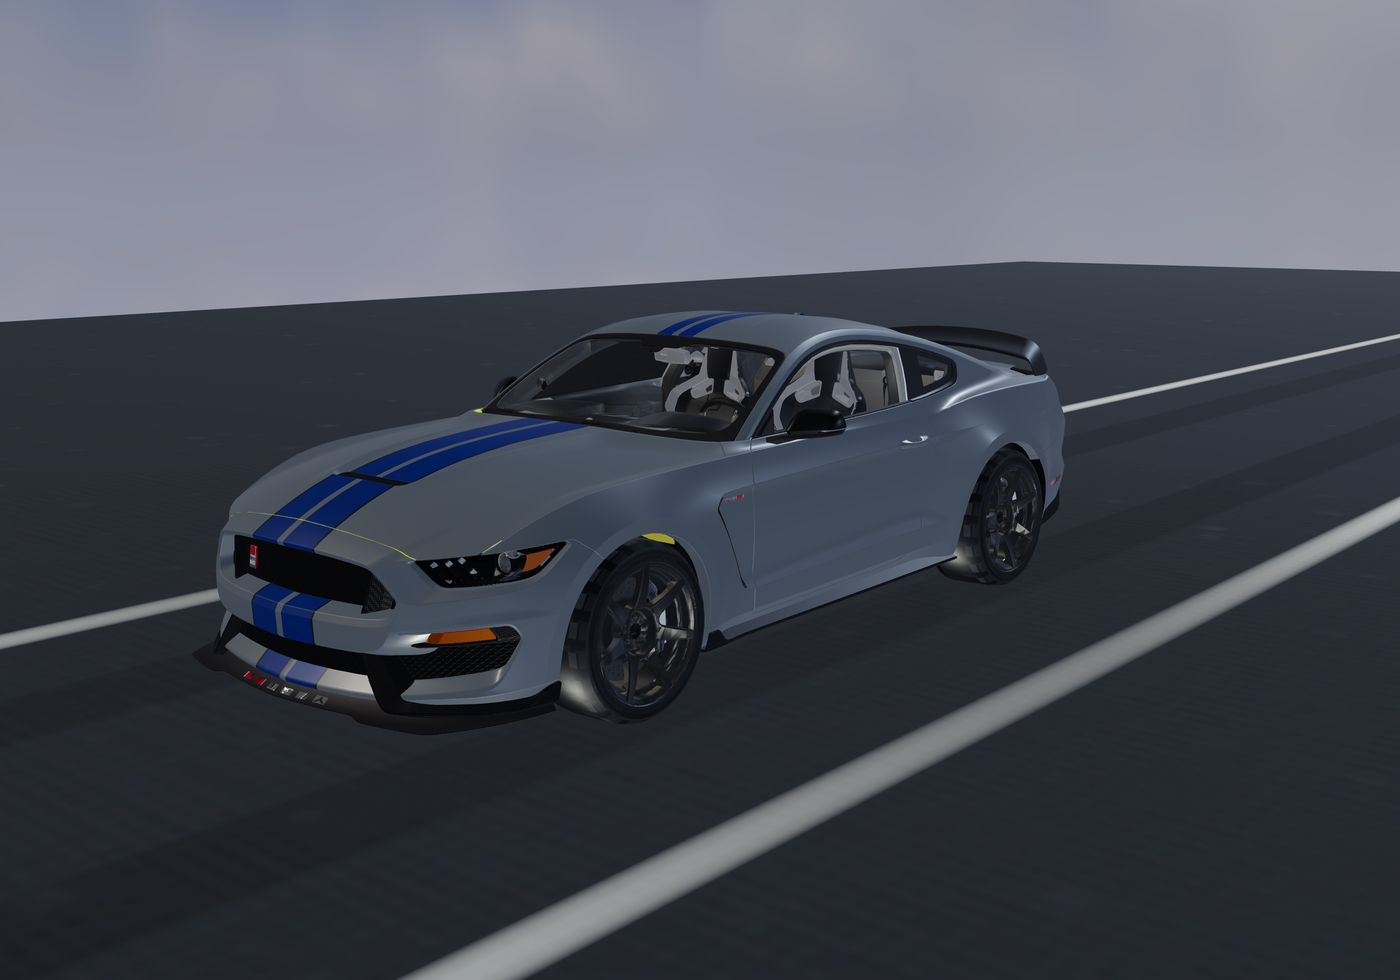
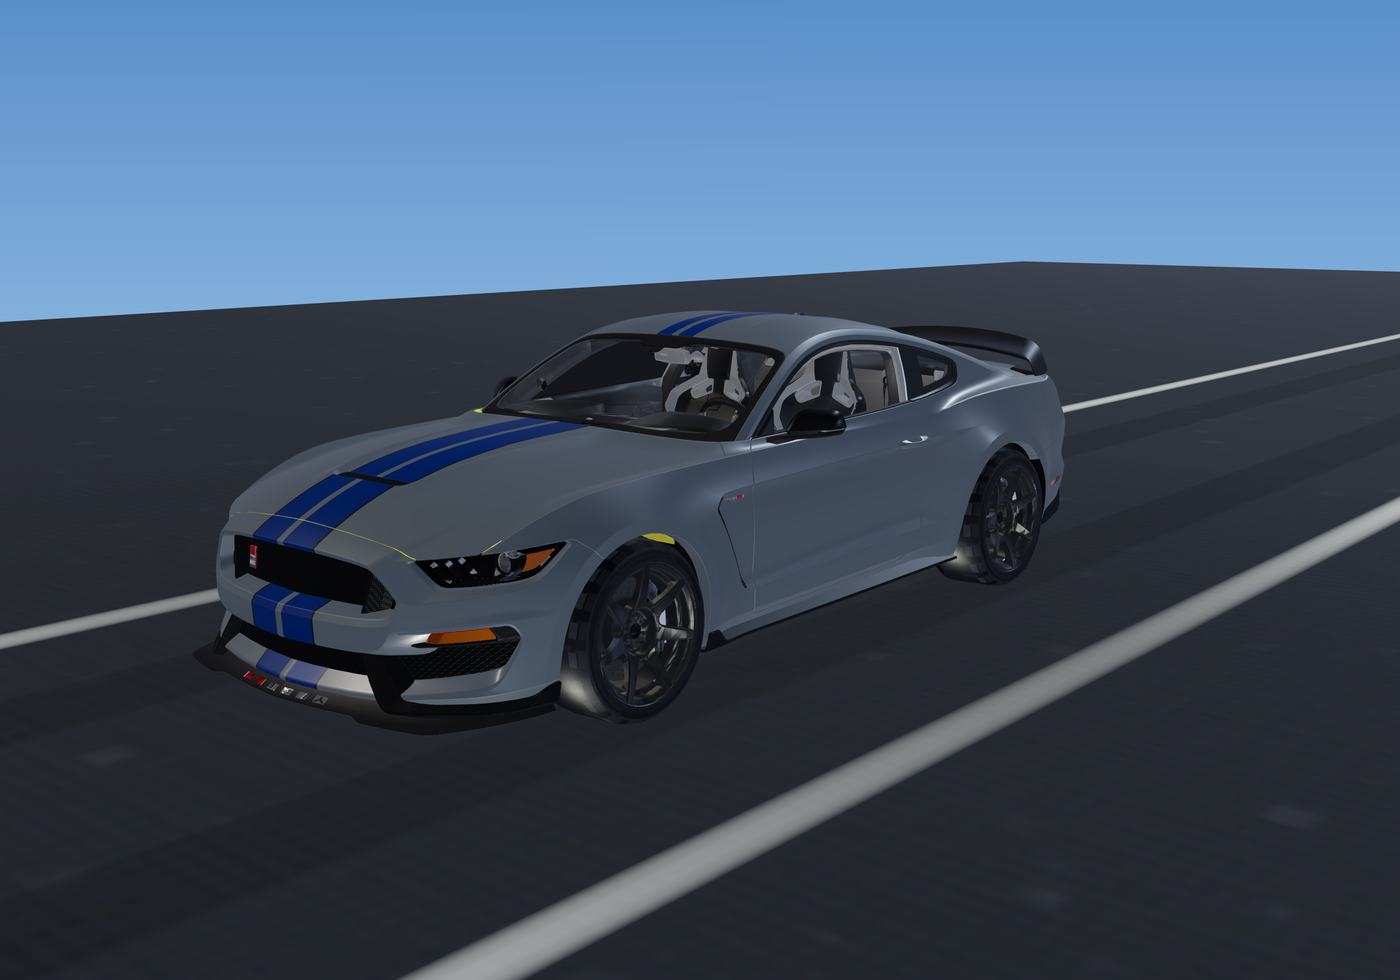
Give the Garage a real blue sky instead of the real HDR's horizon haze
Tuning the real daylight HDR's background blur/intensity couldn't fix
the gray sky, because the bug wasn't in those settings: from this
camera's low, ground-level vantage point the only part of that HDR's
dome ever in frame is its hazy horizon band, never the blue higher up.
Confirmed by numeric pixel sampling a live render and an isolated one
built to the same code -- both were identically flat gray regardless of
blur/intensity. The backdrop is now a small generated gradient in the
aircraft tour's own sky blue, decoupled from the HDR, which stays in
use for reflections only.

Changed region(s): [[0.0, 0.0, 1.0, 0.3367]]

diff --git a/app/garage-scene.tsx b/app/garage-scene.tsx
@@ -108,6 +108,38 @@ function roadTexture(T: typeof import('@/lib/garage-three')) {
   return texture;
 }
 
+// The visible backdrop, drawn on a canvas rather than sampled from the real
+// daylight HDR used for reflections below. That HDR is a real (if tiny,
+// 512x256) sky dome, but from this camera's low, ground-level vantage --
+// framing a parked car, not looking up at the sky -- the only slice of it
+// ever in view is the hazy band right at the horizon, which reads as flat
+// gray regardless of how the background blur/intensity are tuned; the
+// actual blue only exists higher up in the dome than this camera ever
+// points. A dedicated gradient, in the same blue the aircraft tour's own
+// sky photo uses, reliably reads as sky instead. It doesn't rotate with
+// the camera (a plain 2D texture, not an environment map), but the car
+// only orbits at a fairly constant, shallow elevation, so a static gradient
+// behind it is indistinguishable from a real one within that range.
+function skyTexture(T: typeof import('@/lib/garage-three')) {
+  const width = 2;
+  const height = 512;
+  const canvas = document.createElement('canvas');
+  canvas.width = width;
+  canvas.height = height;
+  const ctx = canvas.getContext('2d');
+  if (!ctx) return null;
+  const gradient = ctx.createLinearGradient(0, 0, 0, height);
+  gradient.addColorStop(0, '#5b8fc9');
+  gradient.addColorStop(0.55, '#9cc7e9');
+  gradient.addColorStop(1, '#dde8f2');
+  ctx.fillStyle = gradient;
+  ctx.fillRect(0, 0, width, height);
+  const texture = new T.Texture(canvas);
+  texture.needsUpdate = true;
+  texture.colorSpace = T.SRGBColorSpace;
+  return texture;
+}
+
 const fetchAsset = async (path: string, signal: AbortSignal) => {
   const response = await fetch(sceneAsset(path), {
     signal: AbortSignal.any([signal, AbortSignal.timeout(25000)]),
@@ -201,6 +233,11 @@ export default function GarageScene({ reducedMotion, onStatus }: Props) {
         r.domElement.removeEventListener('webglcontextlost', lost),
       );
       const scene = new T.Scene();
+      const sky = skyTexture(T);
+      if (sky) {
+        scene.background = sky;
+        textures.add(sky);
+      }
       const camera = new T.PerspectiveCamera(36, 1, 0.1, 50);
       camera.position.set(4.6, 1.9, 5.4);
       scene.add(new T.HemisphereLight(0xdfe6ea, 0x33363c, 0.9));
@@ -279,18 +316,11 @@ export default function GarageScene({ reducedMotion, onStatus }: Props) {
           texture.needsUpdate = true;
           const pmrem = new T.PMREMGenerator(r);
           const environment = pmrem.fromEquirectangular(texture);
+          // The same daylight dome the aircraft tour uses, sampled for
+          // reflections only -- see skyTexture above for why the visible
+          // backdrop is a separate, dedicated gradient rather than this.
           scene.environment = environment.texture;
           scene.environmentIntensity = 0.6;
-          // The same daylight dome the aircraft tour uses, now shown as the
-          // backdrop too (not just sampled for reflections). A heavier blur
-          // was tried first to read as soft ambience rather than a literal
-          // sky, but blurring an equirectangular map averages in the hazier
-          // band near the horizon and washes the blue out to gray; a light
-          // blur keeps it soft without losing the color, and the road below
-          // now gives the car something to sit on instead of float over.
-          scene.background = environment.texture;
-          scene.backgroundIntensity = 1.0;
-          scene.backgroundBlurriness = 0.1;
           texture.dispose();
           pmrem.dispose();
           cleanups.push(() => environment.dispose());

diff --git a/ASSETS.md b/ASSETS.md
@@ -20,6 +20,7 @@
 - The roof skin rendered as one solid stripe-blue panel edge to edge, no gray at all — not a recolor bug but the source artist's own UV layout for that one panel, which gives the "stripe" swatch cell nearly the whole roof (verified by sampling the actual texture at the roof's UVs, bucketed by world X: stripe-cell coverage runs to roughly half the roof's own width, versus a narrow band on the hood sampled the same way). A texture recolor can't fix a per-panel UV choice, so the roof is instead re-split by world position into `RoofPaint_stripe` and `RoofPaint_gray`, both carrying "Paint" in their name so the viewer's clearcoat upgrade still applies to them. The first attempt classified whole triangles by centroid at the hood's own stripe offset; that produced either a jagged sawtooth edge (part of this panel's own triangulation is a coarse, several-centimetre diagonal fan the boundary happened to cut through) or, at a boundary wide enough to dodge the fan, a stripe so wide it read as a two-tone panel rather than a stripe next to the hood's much narrower one. `split_at_plane`/`split_bands` in `prepare-garage-car.py` fix both problems at once: they clip the straddling triangles themselves at the exact x boundary (interpolating position/normal/UV at the cut, Sutherland-Hodgman style), so the edge is clean regardless of the source mesh's local resolution, which in turn makes it safe to pick a narrower, more proportionate width and even reproduce the hood's thin gray gap between its two stripes — both were previously blocked by the coarse geometry, not by the classification logic.
 - Interior (42,851 triangles) and engine bay (13,625 triangles) are the two largest remaining chunks and the first candidates to prune if the Garage viewer stays exterior-only and wants a smaller download; nothing has been pruned so far.
 - The ground is a 40×80m asphalt plane, drawn on a canvas at runtime rather than shipped as a photo (`roadTexture` in `garage-scene.tsx`, the same "generate it, don't fetch it" call as the sky's cloud-shadow noise and this viewer's own contact-shadow disc): a speckled aggregate scatter, two faint darker tire-wear paths, and two sun-faded lane edge lines a car's width apart. The canvas's two axes are deliberately not symmetric (tall rather than square) so the lane lines are drawn once as straight rectangles running the plane's length, with real 3D perspective foreshortening them correctly rather than needing a seamless tiling pattern. `MeshStandardMaterial` (not the flat, unlit material the small contact-shadow disc still uses) so it actually responds to the scene's lights; anisotropic filtering is set explicitly since the speckle grain aliased into a visible moiré at the shallow angle a ground plane is seen at, which none of this viewer's other textures needed.
+- The visible sky is a small generated gradient texture (`skyTexture`), not the real daylight HDR used for reflections. That HDR does supply real reflections (`scene.environment`), but from this camera's low, ground-level vantage point, framing a parked car rather than looking upward, the only part of its dome ever in the frame is the hazy band right at the horizon — no amount of `backgroundBlurriness`/`backgroundIntensity` tuning changes that, since the actual blue sky in that HDR sits higher in the dome than this camera ever points. Confirmed by numeric pixel sampling (not by eye) after tuning those two properties looked identically gray in a live-page render and an isolated one built to the same code: the color really was that flat regardless. The gradient's blue is sampled from the aircraft tour's own `cruise-sky.jpg` for consistency. It's a plain 2D texture, not an environment map, so it doesn't rotate with the camera the way a real sky would — acceptable here since the viewer only orbits at a fairly constant, shallow elevation around the car.
 - `public/images/garage-gt350r.png`/`.avif`: the poster shown before the interactive viewer loads (and for reduced-motion visitors), rendered from the finished GLB at the viewer's own default camera angle and lighting so it matches the live scene exactly rather than crossfading into a different look.
 
 ## Preserved earlier scenery
